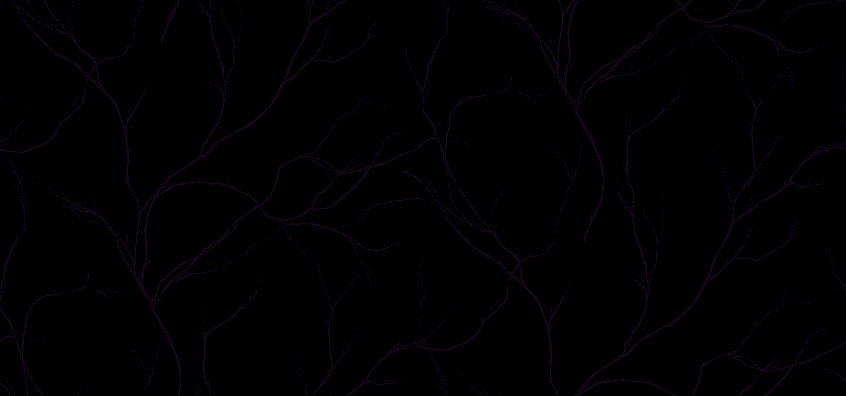
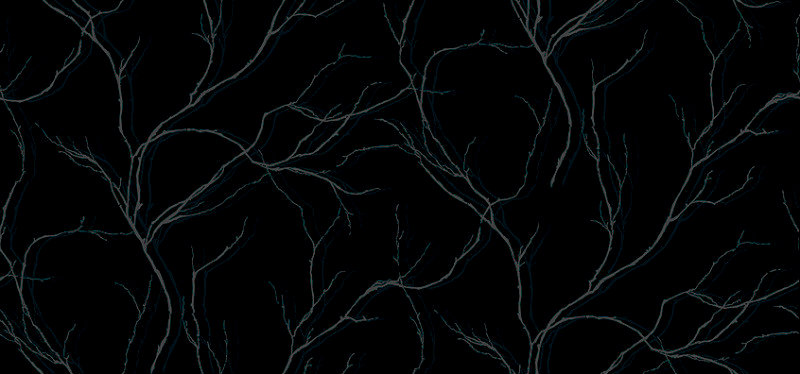
dark tree files and colors + rename folders

diff --git a/themes/tree_purple/index.html b/themes/tree_purple/index.html
@@ -1,0 +1,111 @@
+<!DOCTYPE html>
+<html lang="ru">
+    <head>
+        <meta charset="utf-8">
+        <title>тест темы оформления для @дневника</title>
+        <link rel="stylesheet" href="style.css">
+        <link rel="stylesheet" href="sources/style.css">
+    </head>
+    <body>
+        <div id="way_back"><a href="../../index.html">- обратно к стартовой  странице</a></div>
+        <div class="layout">
+            <div class="bordered menu_area">
+                <div class="diary_info bordered">
+                    <a href="#" id="title_diary">восхитительное ничего</a>
+                    <div id="photo_diary"></div>
+                    <a href="#" class="username">маленький моглась</a>
+                </div>
+                <div class="links_group">
+                    <ul>
+                        <li><a href="#"><span>Вступить в&nbsp;сообщество</span></a></li>
+                        <li><a href="#"><span>Избранное сообщества</span></a></li>
+                        <li><a href="#"><span>Цитатник сообщества</span></a></li>
+                        <li><a href="#"><span>Альбом сообщества</span></a></li>
+                    </ul>
+                </div>
+            </div>
+            <div class="bordered posts_area">
+                <div class="post_area bordered">
+                    <div class="post_text" id="epigraph">                    
+                        
+                        <iframe src="sources/p0.html" width="100%" frameborder="0" scrolling="no" seamless></iframe>
+  
+                    </div>
+                    <a href="sources/p0.html" class="post_url">URL</a>
+                </div>
+                <ul id="sortOrder">
+                    <li><a href="#" title="Сортировать записи в порядке следования"><img src="images/postsort.gif" class="img_sorting" alt="&uarr;" title="Сортировать записи в порядке следования"></a></li>
+                    <li><a href="#" title="Сортировать записи в обратном порядке"><img src="images/postrsort.gif" class="img_sorting" alt="&uarr;" title="Сортировать записи в обратном порядке"></a></li>
+                    <li><a href="#" title="Сортировать по последним комментариям"><img src="images/commentsort.gif" class="img_sorting" alt="&uArr;" title="Сортировать по последним комментариям"></a></li>
+                </ul>
+                <div class="post_area_1 bordered">
+                    <div class="post_data header">
+                        <span title="17 часов 10 минут назад">Пятница, 14 июля 2016</span>
+                    </div>
+                    <div class="post_time header">
+                        <span title="17 часов 10 минут назад">07:46</span><h2>[3] nhtnmz</h2>
+                    </div>
+                    <div class="post_content">
+                        <div class="infouser_area">
+                            <a href="#" class="username">маленький моглась</a>
+                            <div class="avatar_area"></div>
+                            <div class="underwords">и что я думаю с этим делать?</div>
+                        </div>
+                        <div class="post_text">
+                            Последнее время, кажется, стала ещё больше и внимательнее проводить время с братиком. И ещё определённо больше стала общаться с сестрёнкой. Рада этому.)<br>
+        Пробовали вчера поиграть во вторую эпоху империй. Ноут братика какое-то время назад уснул и не может больше есть, а вот мой маленький-беленький Аха довольно бодрый, хоть я туда и десятку поставила (инсайдер превью, чтобы обновлять и смотреть что там нового ^_^). Так что мы поставили эпоху на Гефеста и Аха, а потом пробовали поиграть вместе по локалке. Само по себе оно не запускалось, попробовали программку langame, но так и не заработало. А потом я нашла gameranger, и всё взлетело.)) Поиграли с удовольствием. ^_^<br>
+        Почти досмотрели светлячка, классный сериал. Мне нравятся Келли и Ривер.)
+                            <p class="tags"><em><span>@темы: </span><a href='#'>[текущий цикл]</a>,  <a href='#'>GridDiary</a></em></p>
+                        </div>
+                    </div>
+                    <div class="clear"></div>
+                    <a href="#" class="post_url">URL</a>
+                </div>
+                <div class="post_area_2 bordered">
+                    <div class="post_data header">
+                        <span title="17 часов 10 минут назад">Пятница, 14 июля 2016</span>
+                    </div>
+                    <div class="post_time header">
+                        <span title="17 часов 10 минут назад">07:46</span><h2>[3] nhtnmz</h2>
+                    </div>
+                    <div class="post_content">
+                        <div class="infouser_area">
+                            <a href="#" class="username">маленький моглась</a>
+                            <div class="avatar_area"></div>
+                            <div class="underwords">и что я думаю с этим делать?</div>
+                        </div>
+                        <div class="post_text">
+                            Последнее время, кажется, стала ещё больше и внимательнее проводить время с братиком. И ещё определённо больше стала общаться с сестрёнкой. <span class="offtop">Рада этому.</span> Да-да-да. Абыр.
+                            <p class="tags"><em><span>@темы: </span><a href='#'>[текущий цикл]</a>,  <a href='#'>GridDiary</a></em></p>
+                        </div>
+                    </div>
+                    <div class="clear"></div>
+                    <a href="#" class="post_url">URL</a>
+                </div>
+                <div class="post_area_3 bordered">
+                    <div class="post_data header">
+                        <span title="17 часов 10 минут назад">Пятница, 14 июля 2016</span>
+                    </div>
+                    <div class="post_time header">
+                        <span title="17 часов 10 минут назад">07:46</span><h2>[3] nhtnmz</h2>
+                    </div>
+                    <div class="post_content">
+                        <div class="infouser_area">
+                            <a href="#" class="username">маленький моглась</a>
+                            <div class="avatar_area"></div>
+                            <div class="underwords">и что я думаю с этим делать?</div>
+                        </div>
+                        <div class="post_text">
+                            Последнее время, кажется, стала ещё больше и внимательнее проводить время с братиком. И ещё определённо больше стала общаться с сестрёнкой. Рада этому.)<br>
+        Пробовали вчера поиграть во вторую эпоху империй. Ноут братика какое-то время назад уснул и не может больше есть, а вот мой маленький-беленький Аха довольно бодрый, хоть я туда и десятку поставила (инсайдер превью, чтобы обновлять и смотреть что там нового ^_^). Так что мы поставили эпоху на Гефеста и Аха, а потом пробовали поиграть вместе по локалке. Само по себе оно не запускалось, попробовали программку langame, но так и не заработало. А потом я нашла gameranger, и всё взлетело.)) Поиграли с удовольствием. ^_^<br>
+        Почти досмотрели светлячка, классный сериал. Мне нравятся Келли и Ривер.)
+                            <p class="tags"><em><span>@темы: </span><a href='#'>[текущий цикл]</a>,  <a href='#'>GridDiary</a></em></p>
+                        </div>
+                    </div>
+                    <div class="clear"></div>
+                    <a href="#" class="post_url">URL</a>
+                </div>
+            </div>
+        </div>
+    </body>
+</html>

diff --git a/themes/tree_purple/style.css b/themes/tree_purple/style.css
@@ -1,0 +1,113 @@
+.bordered{
+    border: 1px solid;
+    margin: 5px;
+    padding: 10px;
+}
+#img_epigraph{
+    background-repeat: no-repeat;
+    background-position: 50% 50%;
+    background-size: contain;
+}
+div{
+    display: block;
+}
+a{
+    text-decoration: none;
+}
+#epigraph a{
+    text-decoration: underline;
+}
+a:hover{
+    text-decoration: underline;
+}
+[class^="post_area"], .diary_info{
+    border-left: none;
+    border-right: none;
+    border-top: none;
+    margin: 10px -5px;
+    padding: 0;
+}
+
+#sortOrder{
+    margin: 0;
+    padding: 0;
+    text-align: right;
+    opacity: 0.6;
+}
+#sortOrder li{
+    display: inline;
+}
+.infouser_area{
+    text-align: center;
+    width: 130px;
+    padding: 10px 5px;
+    float: left;
+}
+[class^="post_area_"] .post_text{
+    min-height: 40px;
+/*    float: right;    */
+    padding-top: 40px;
+}
+.infouser_area .username{
+    font-weight: bold;
+}
+.avatar_area{
+    width: 120px;
+    height: 120px;
+    margin: 10px 5px;
+}
+.underwords{
+    width: 120px;
+    text-align: left;
+    margin: 5px 0;
+}
+.underwords, .post_url{
+    font-size: 85%;
+}
+.post_data{
+    text-align: right;
+}
+.header h2{
+    display: inline;
+    padding-left: 10px;
+    font-weight: normal;
+    font-size: 100%;
+}
+.layout{
+    width: 100%;
+    margin: 0;
+    padding: 0;
+}
+.posts_area{
+    margin-right: 190px;
+}
+.menu_area{
+    float: right;
+    width: 150px;
+}
+.diary_info{
+    text-align: center;
+    margin: 0;
+    padding: 0;
+    padding-bottom: 10px;
+}
+#photo_diary{
+    width: 120px;
+    height: 120px;
+    background-repeat: no-repeat;
+    background-position: 50% 50%;
+    background-size: contain;
+    margin: 20px 0 5px 10px;
+}
+.links_group ul{
+    list-style: none;
+    padding: 0;
+}
+.clear{
+    clear: both;
+}
+
+.img_sorting{
+    margin: 0;
+    border: 0;
+}

diff --git a/themes/tree_purple/sources/p0.html b/themes/tree_purple/sources/p0.html
@@ -10,14 +10,11 @@
     <div style="text-align: center">
         <div id="img_epigraph"></div>
         <span class="offtop">
-            <a class="offtop"
-               href="https://chriscold.deviantart.com/art/Ghost-tree-432652298"
-               target=_blank>Ghost tree</a> by <a class="offtop"
-                                                              href="https://chriscold.deviantart.com/"
-                                                              target=_blank>ChrisCold</a> on <a class="offtop" href="http://www.deviantart.com" target=_blank>DeviantArt</a>
+            (<a class="offtop"
+               href="http://anime-pictures.net/pictures/view_post/170262" target=_blank>link</a>)
         </span>
         <div style="text-align: right">
-            <span class="header"><i>quaerite et invenietis</i></span>
+            <span class="header"><i>Через саморазрушение к саморазвитию.</i></span>
         </div>
     </div>
 <!--подпись под эпиграфом обычным текстом<br>-->

diff --git a/themes/tree_purple/sources/style.css b/themes/tree_purple/sources/style.css
@@ -12,7 +12,7 @@ body{
 }
 .header, h1{
 /*  цвет заголовка  */
-    color: #666666;
+    color: #663366;
 /*  цвет фона заголовка  */
     background-color: transparent;
 /*  размер шрифта заголовка  */
@@ -20,15 +20,15 @@ body{
 }
 .offtop{
 /*  цвет оффтопа  */
-    color: #003333;
+    color: #330033;
 }
 a{
 /*  цвет ссылки  */
-    color: #999999;
+    color: #996699;
 }
 .bordered{
 /*  цвет границы  */
-    border-color: #333333;
+    border-color: #330033;
 }
 .posts_area, .menu_area, .epigraph_area{
 /*  цвет фона записи  */
